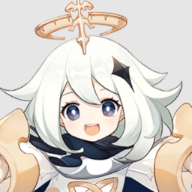
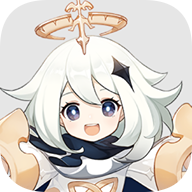
Change images

diff --git a/index.css b/index.css
@@ -383,7 +383,7 @@ body *::selection {
     width: 180px;
     border-radius: 12px;
     height: -webkit-fill-available;
-    background-image: url(./icons/android-chrome-512x512.png);
+    background-image: url(./icons/original.png);
     background-size: cover;
     background-position: center;
     background-repeat: no-repeat;

diff --git a/sw.js b/sw.js
@@ -9,7 +9,7 @@ self.addEventListener('install', (event) => {
                 './index.html',
                 './index.js',
                 './index.css',
-                "./icons/android-chrome-512x512.png",
+                "./icons/original.png",
                 './favicon.ico'
             ])
         })()

diff --git a/index.js b/index.js
@@ -164,7 +164,7 @@ var currentShow = 'home';
 var profile = {
     "基本資料": {
         "概括": {
-            "頭像": "./icons/android-chrome-512x512.png",
+            "頭像": "./icons/original.png",
             "暱稱": "Siyu1017"
         },
         "詳細": {
